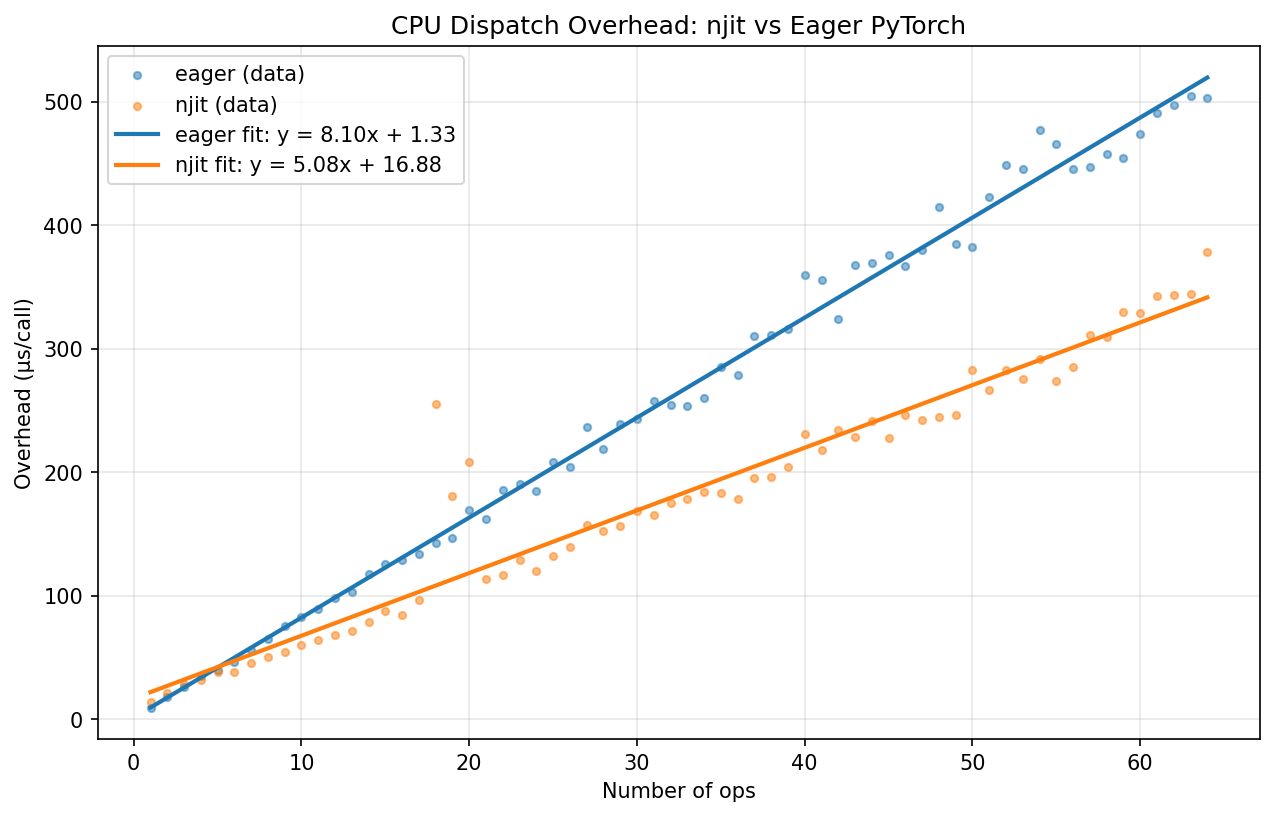
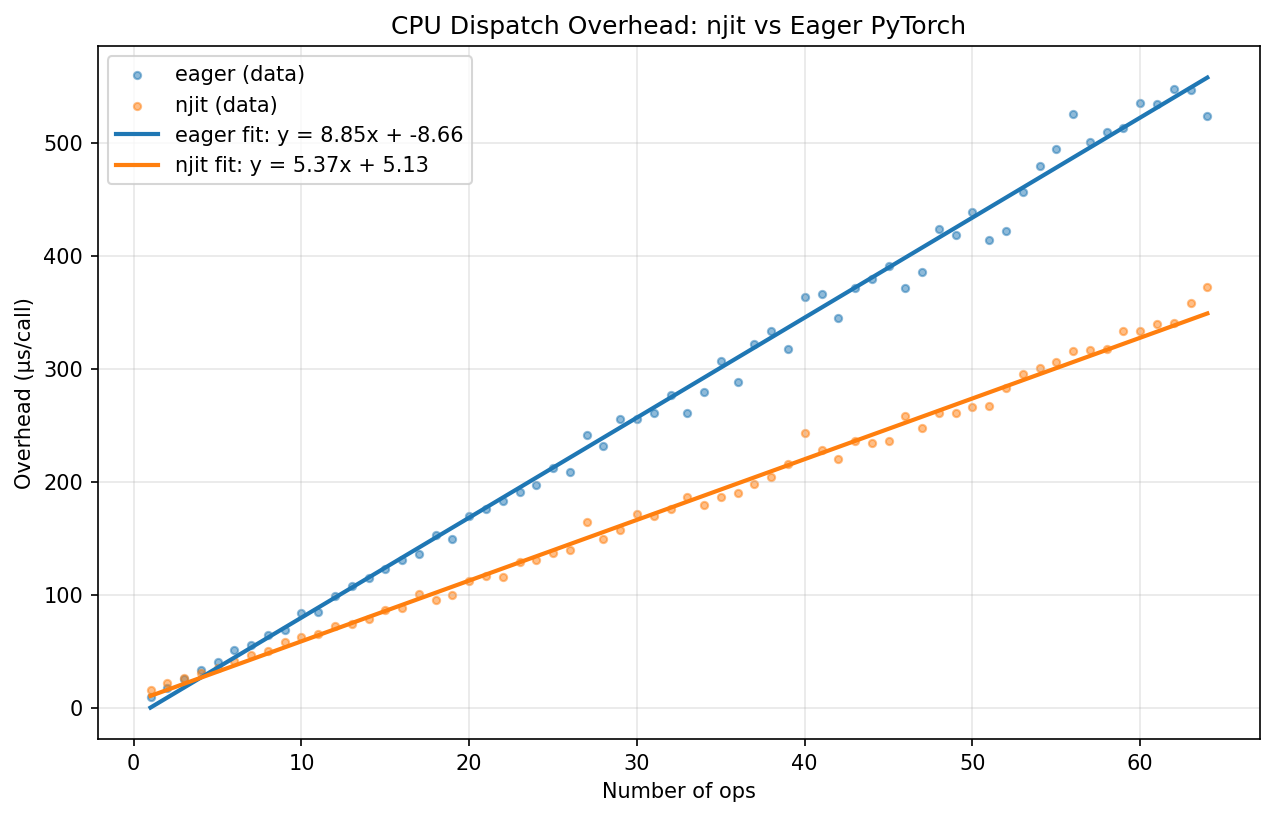
Add outlier removal to linear fit for stable benchmarks
Use a residual-based filter: fit once, discard points beyond 2σ, then
refit.  This prevents JIT warmup spikes or system noise from pulling
the intercept estimate away from the true value.

Updated benchmark results (with outlier removal):
  njit:   k = 5.3709 µs/op,  b = 5.1297 µs
  eager:  k = 8.8468 µs/op,  b = -8.6629 µs

diff --git a/benchmarks/eager-vs-njit/run.py b/benchmarks/eager-vs-njit/run.py
@@ -107,6 +107,19 @@ def bench(fn, args, warmup=WARMUP, iters=ITERS):
     return elapsed / iters * 1e6  # → µs
 
 
+def _robust_polyfit(xs, ys, threshold=2.0):
+    """Fit y = k*x + b, removing outliers whose residual exceeds *threshold* σ.
+
+    Performs an initial fit, computes residuals, discards points beyond
+    *threshold* standard deviations, then refits on the clean data.
+    """
+    k, b = np.polyfit(xs, ys, 1)
+    residuals = ys - (k * xs + b)
+    std = np.std(residuals)
+    mask = np.abs(residuals) <= threshold * std
+    return np.polyfit(xs[mask], ys[mask], 1)
+
+
 # ---------------------------------------------------------------------------
 # Main
 # ---------------------------------------------------------------------------
@@ -137,13 +150,13 @@ def main():
 
         print(f"  ops={n_ops:3d}  njit={t_njit:8.2f} µs  eager={t_eager:8.2f} µs")
 
-    # -- Linear fits: y = k*x + b --
+    # -- Linear fits: y = k*x + b (with outlier removal) --
     xs = np.array(op_counts, dtype=np.float64)
     ys_njit = np.array(times_njit, dtype=np.float64)
     ys_eager = np.array(times_eager, dtype=np.float64)
 
-    k_njit, b_njit = np.polyfit(xs, ys_njit, 1)
-    k_eager, b_eager = np.polyfit(xs, ys_eager, 1)
+    k_njit, b_njit = _robust_polyfit(xs, ys_njit)
+    k_eager, b_eager = _robust_polyfit(xs, ys_eager)
 
     print("\nLinear fit  y = k*x + b")
     print(f"  njit:   k = {k_njit:.4f} µs/op,  b = {b_njit:.4f} µs")

diff --git a/benchmarks/eager-vs-njit/README.md b/benchmarks/eager-vs-njit/README.md
@@ -14,8 +14,8 @@ Each graph is simply `for i in range(N): x = torch.relu(x)`.
 
 |       | k (µs/op) | b (µs)  |
 |-------|-----------|---------|
-| njit  | 5.0751    | 16.8765  |
-| eager | 8.0992    | 1.3311  |
+| njit  | 5.3709    | 5.1297  |
+| eager | 8.8468    | -8.6629  |
 
 - **k** (slope) is the **per-op cost** — the marginal time (in µs) added by
   each additional `torch.relu` call.  A smaller *k* means each op dispatches
@@ -29,70 +29,70 @@ Each graph is simply `for i in range(N): x = torch.relu(x)`.
 
 | Ops | njit (µs) | eager (µs) |
 |-----|-----------|------------|
-| 1 | 14.29 | 9.42 |
-| 2 | 21.10 | 18.38 |
-| 3 | 28.12 | 26.42 |
-| 4 | 31.99 | 34.73 |
-| 5 | 38.20 | 39.53 |
-| 6 | 38.50 | 46.70 |
-| 7 | 45.76 | 56.24 |
-| 8 | 50.58 | 64.81 |
-| 9 | 54.23 | 75.13 |
-| 10 | 59.85 | 82.47 |
-| 11 | 63.83 | 89.45 |
-| 12 | 68.50 | 98.46 |
-| 13 | 71.76 | 102.98 |
-| 14 | 78.52 | 117.59 |
-| 15 | 87.45 | 125.82 |
-| 16 | 84.68 | 129.13 |
-| 17 | 96.86 | 134.11 |
-| 18 | 255.33 | 142.67 |
-| 19 | 181.19 | 146.84 |
-| 20 | 208.37 | 169.25 |
-| 21 | 113.77 | 162.04 |
-| 22 | 117.00 | 185.53 |
-| 23 | 128.92 | 190.30 |
-| 24 | 120.29 | 184.65 |
-| 25 | 132.45 | 208.14 |
-| 26 | 139.37 | 204.21 |
-| 27 | 157.68 | 236.80 |
-| 28 | 152.58 | 218.57 |
-| 29 | 156.67 | 238.90 |
-| 30 | 168.26 | 243.13 |
-| 31 | 165.34 | 257.83 |
-| 32 | 175.38 | 254.77 |
-| 33 | 178.26 | 253.96 |
-| 34 | 183.67 | 260.28 |
-| 35 | 182.89 | 285.57 |
-| 36 | 178.32 | 278.89 |
-| 37 | 195.37 | 310.72 |
-| 38 | 196.49 | 311.29 |
-| 39 | 204.38 | 315.94 |
-| 40 | 231.41 | 360.11 |
-| 41 | 218.04 | 355.68 |
-| 42 | 233.87 | 324.08 |
-| 43 | 228.94 | 367.67 |
-| 44 | 241.40 | 369.40 |
-| 45 | 227.63 | 376.17 |
-| 46 | 246.47 | 367.14 |
-| 47 | 242.51 | 380.41 |
-| 48 | 244.57 | 414.54 |
-| 49 | 246.40 | 385.11 |
-| 50 | 282.81 | 382.64 |
-| 51 | 266.75 | 422.91 |
-| 52 | 283.01 | 448.93 |
-| 53 | 275.21 | 445.68 |
-| 54 | 291.80 | 477.17 |
-| 55 | 274.32 | 465.98 |
-| 56 | 285.56 | 445.75 |
-| 57 | 311.37 | 447.37 |
-| 58 | 309.96 | 458.04 |
-| 59 | 329.54 | 454.54 |
-| 60 | 329.23 | 474.06 |
-| 61 | 342.96 | 490.99 |
-| 62 | 343.51 | 497.46 |
-| 63 | 344.14 | 504.72 |
-| 64 | 378.77 | 503.34 |
+| 1 | 15.37 | 9.63 |
+| 2 | 21.61 | 17.53 |
+| 3 | 26.56 | 25.72 |
+| 4 | 31.13 | 33.65 |
+| 5 | 35.54 | 40.21 |
+| 6 | 41.01 | 51.05 |
+| 7 | 46.47 | 55.94 |
+| 8 | 50.67 | 64.38 |
+| 9 | 57.85 | 69.07 |
+| 10 | 62.57 | 83.62 |
+| 11 | 65.23 | 84.66 |
+| 12 | 72.11 | 98.97 |
+| 13 | 73.99 | 107.71 |
+| 14 | 78.68 | 115.07 |
+| 15 | 86.11 | 123.05 |
+| 16 | 88.19 | 131.12 |
+| 17 | 100.74 | 136.01 |
+| 18 | 95.26 | 152.48 |
+| 19 | 99.81 | 149.29 |
+| 20 | 112.20 | 169.50 |
+| 21 | 116.59 | 175.68 |
+| 22 | 115.78 | 183.04 |
+| 23 | 128.68 | 190.56 |
+| 24 | 130.85 | 196.84 |
+| 25 | 136.58 | 211.70 |
+| 26 | 139.50 | 208.72 |
+| 27 | 164.47 | 241.40 |
+| 28 | 149.44 | 231.97 |
+| 29 | 157.10 | 255.55 |
+| 30 | 171.06 | 255.26 |
+| 31 | 169.94 | 260.65 |
+| 32 | 175.93 | 276.45 |
+| 33 | 186.79 | 261.03 |
+| 34 | 179.82 | 279.01 |
+| 35 | 186.28 | 307.03 |
+| 36 | 189.79 | 287.83 |
+| 37 | 197.66 | 321.56 |
+| 38 | 204.49 | 333.54 |
+| 39 | 216.12 | 317.47 |
+| 40 | 243.54 | 363.65 |
+| 41 | 227.78 | 365.82 |
+| 42 | 220.32 | 344.75 |
+| 43 | 236.07 | 371.08 |
+| 44 | 233.87 | 379.05 |
+| 45 | 235.90 | 391.18 |
+| 46 | 258.34 | 371.40 |
+| 47 | 247.30 | 385.88 |
+| 48 | 260.91 | 423.18 |
+| 49 | 260.67 | 418.03 |
+| 50 | 265.86 | 438.57 |
+| 51 | 266.95 | 414.02 |
+| 52 | 283.06 | 421.41 |
+| 53 | 295.62 | 456.16 |
+| 54 | 300.68 | 479.08 |
+| 55 | 306.07 | 494.00 |
+| 56 | 315.31 | 525.26 |
+| 57 | 316.37 | 500.42 |
+| 58 | 317.58 | 509.27 |
+| 59 | 333.66 | 512.75 |
+| 60 | 333.03 | 535.16 |
+| 61 | 339.26 | 534.12 |
+| 62 | 340.18 | 547.64 |
+| 63 | 358.14 | 546.68 |
+| 64 | 372.63 | 523.15 |
 
 > 1000 iterations per data point, 50 warmup iterations.
 
